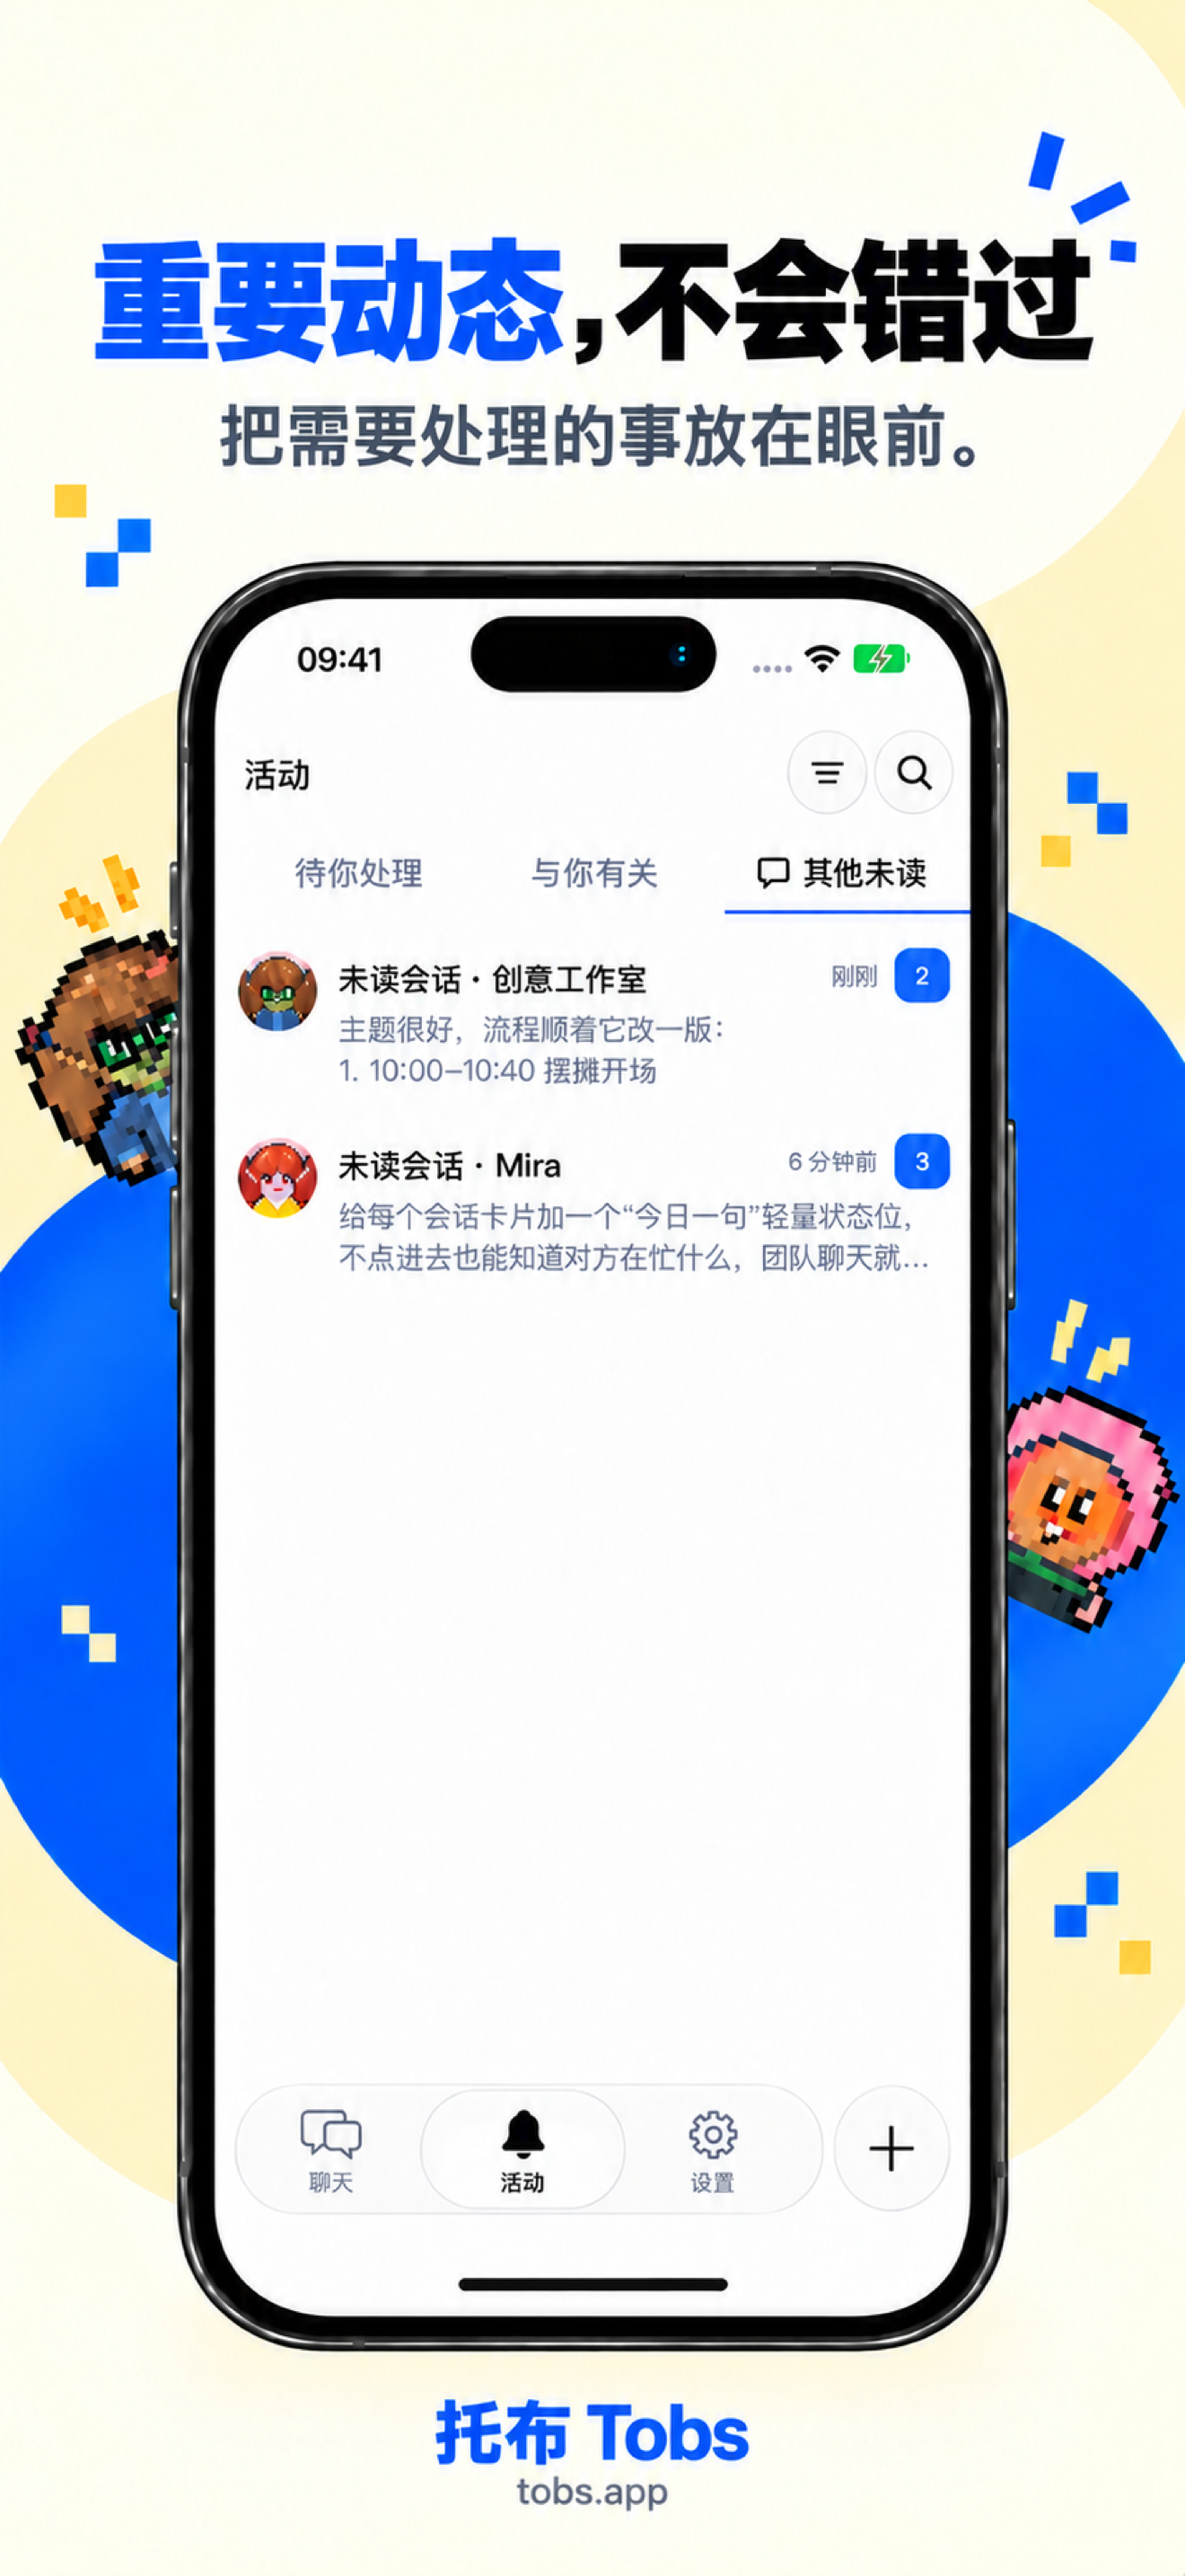
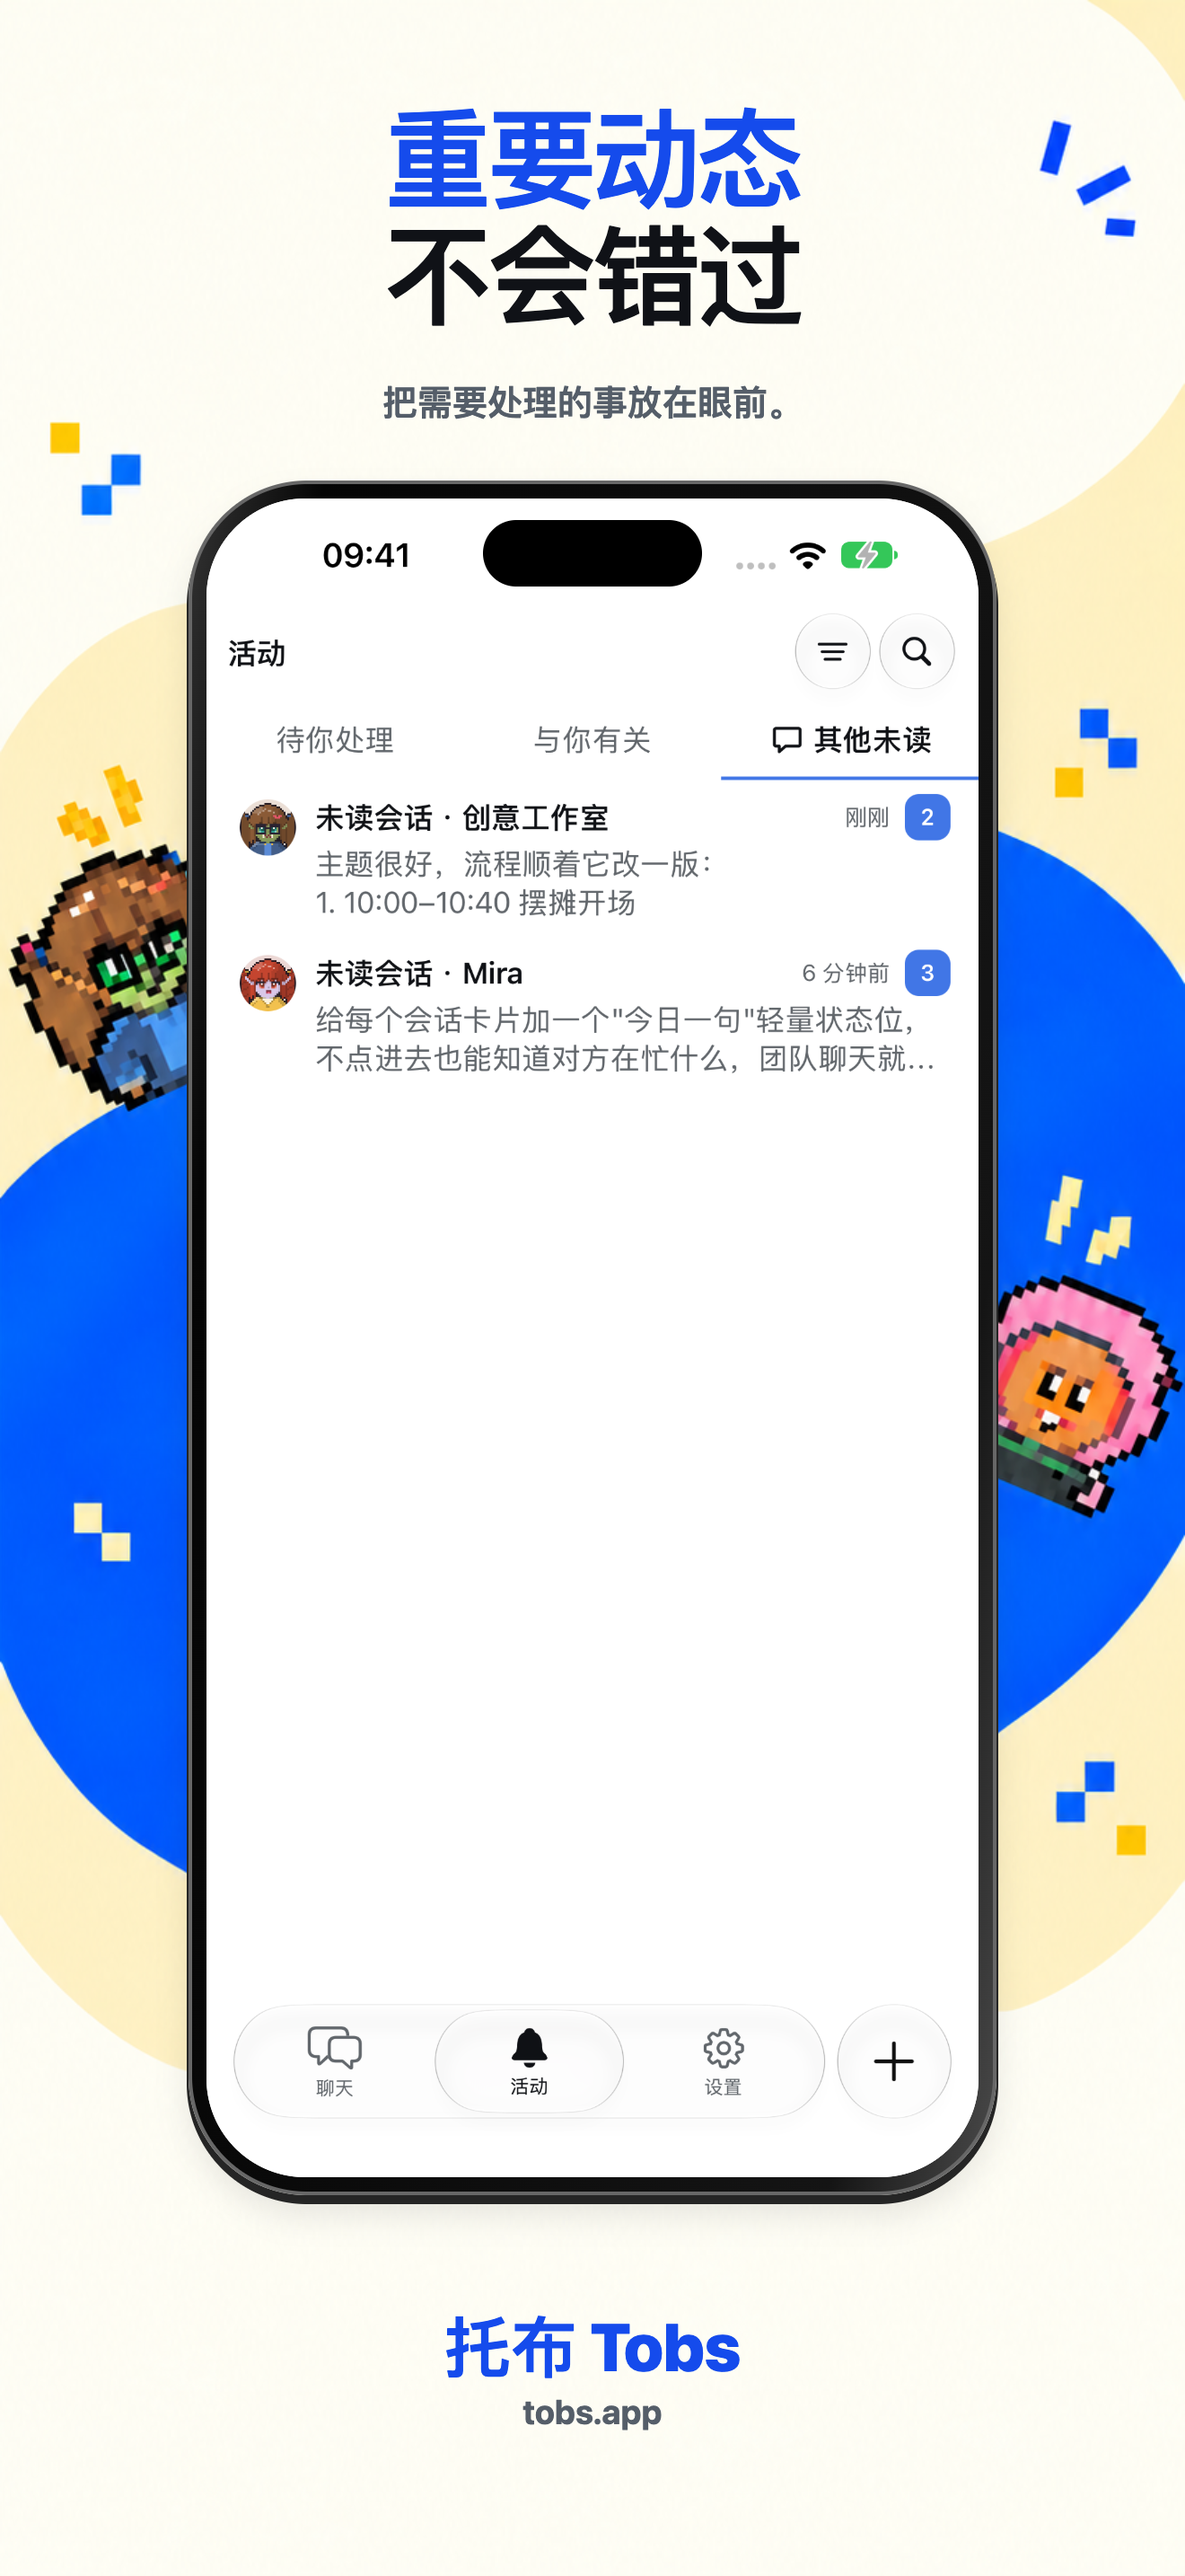
fix(ios): preserve real screenshot proportions in Chinese store artwork (#2753)
* fix(ios): preserve native screenshot proportions in Chinese store art

Issue: #2725

Agent-Task: codex/local/01a1653b-3345-7091-8284-34ceddb41e2c

* style(ios): enlarge Chinese store poster headlines

Issue: #2725

Agent-Task: codex/local/01a1653b-3345-7091-8284-34ceddb41e2c

Changed region(s): [[0.0, 0.031, 1.0, 0.993]]

diff --git a/apps/mobile/store/tobs/README.md b/apps/mobile/store/tobs/README.md
@@ -2,7 +2,7 @@
 
 Twelve branded variants of the existing iOS campaign: seven English compositions (three dark), five Simplified Chinese compositions. Each PNG is 1320 × 2868, with the complete phone frame and an exterior Tobs/托布 Tobs wordmark plus `tobs.app`. The originals and native captures remain unchanged in their task evidence batches. `manifest.json` records the original poster, capture source and output hashes.
 
-These are **generated marketing compositions**, not native screenshots or proof of the renamed app binary. Codex built-in imagegen edited the existing posters, and SIPS converted dimensions. No new app controls or product features were requested. Compare the phone content with the source captures during final editorial acceptance (#2736). Community README text and repository names can still contain historical DeepSeekBot; official DeepSeek model and DeepSeek Harness names remain accurate.
+The five Chinese compositions use **unchanged native screenshot layers**, saved under `sources/zh/`. Their 1320 × 2868 content is displayed at 860 × 1868.53 CSS pixels with `width: 100%; height: auto`; horizontal and vertical scales differ only by browser subpixel rounding (less than 0.001%). A CSS device frame, physical camera mask and exterior typography surround that layer. Built-in imagegen supplies the decorative background only. The seven English images remain generated marketing compositions. These are campaign assets from retained earlier captures, not proof of the renamed app binary; final editorial acceptance remains in #2736. Community and official DeepSeek names remain accurate.
 
 ## Order
 
@@ -16,8 +16,8 @@ These are **generated marketing compositions**, not native screenshots or proof 
 | 06   | Marketplace detail, dark | —                   |
 | 07   | Native Create menu       | —                   |
 
-## Prompt direction
+## Decorative background direction
 
-Edit only exterior branding of the existing composition. Add the verbatim wordmark `Tobs` (English) or `托布 Tobs` (Chinese), with `tobs.app` below it, outside and below the complete phone. Keep the headline, UI text, avatars, controls and light/dark palette. Keep all phone edges and the home indicator visible; reduce the composition or extend the matching background if needed. Do not invent icons, controls, AI labels or a watermark. Two Chinese footer variants were corrected to remove invented logo artwork.
+Remove phone and typography from the existing cream/blue/pixel-character poster to obtain a decorative background only. Keep the center clear. Never send the final native screenshot layer through image generation; use its original aspect ratio when placing it in the complete phone frame. Exterior brand text is `托布 Tobs`, with `tobs.app` below it. The prior generated Chinese posters remain in Git history.
 
 Uploading these candidates to the existing App Store Connect draft does not submit the app for App Review or publish a release. App Store Connect record, bundle IDs, EAS project, signing, App Groups, storage and deep-link schemes remain the existing identities. Native naming and upgrade verification are recorded separately on #2725.

diff --git a/changes/2725-store-image-fit.md b/changes/2725-store-image-fit.md
@@ -1,0 +1,11 @@
+---
+section: Changed
+---
+
+## en
+
+- Chinese iOS store artwork now places original native screenshots at their original aspect ratio, with larger headlines and complete phone frames ([#2725](https://github.com/BotHarness/DeepSeekBot/issues/2725)).
+
+## zh
+
+- 中文 iOS 宣传图改用保持宽高比的原始截图，放大标题并保留完整手机框（[#2725](https://github.com/BotHarness/DeepSeekBot/issues/2725)）。
